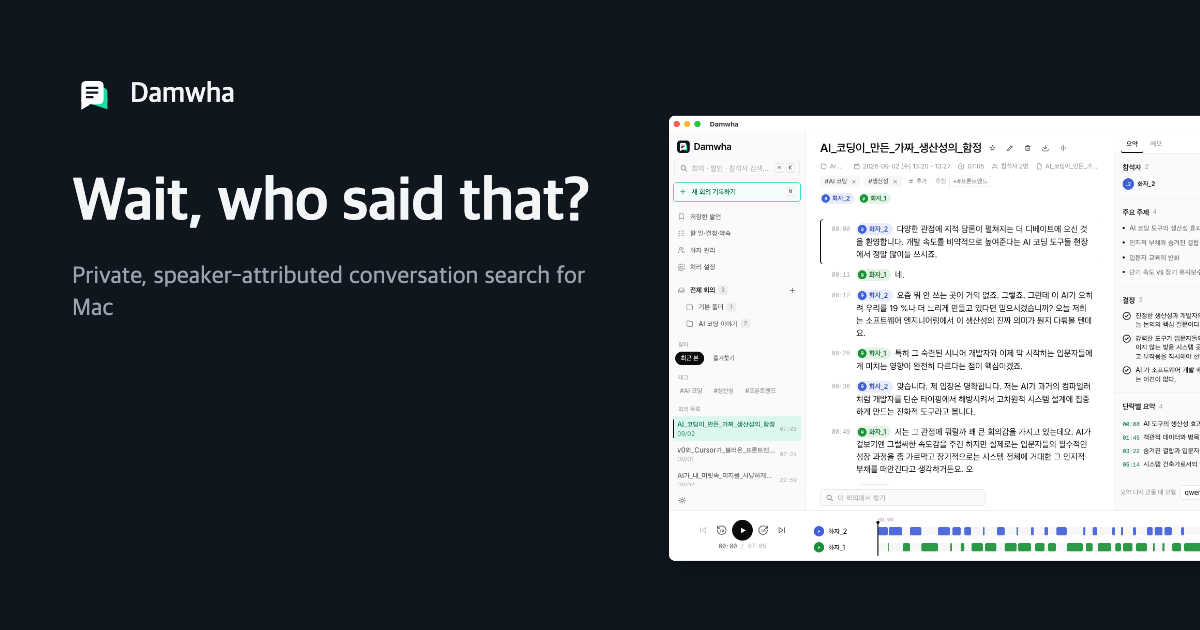
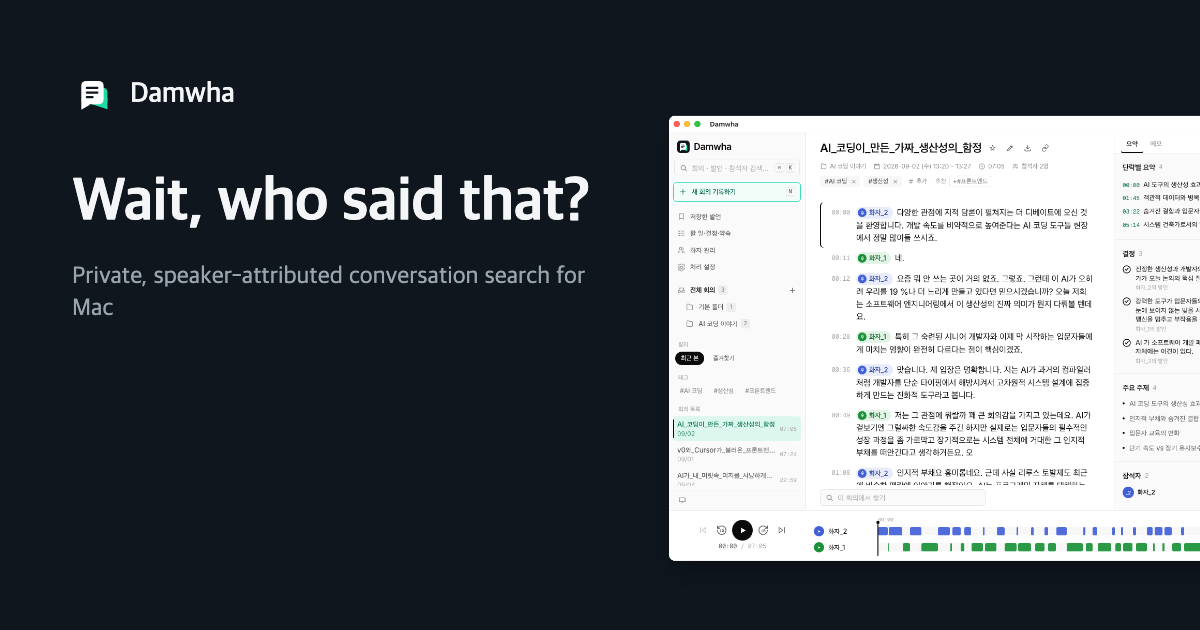
feat(site): 바뀐 회의 목록·상세·화자 관리 화면으로 이미지를 다시 찍고 화자 병합을 소개한다
히어로·정리·화자 이미지 3장을 데모 시드를 띄운 SPA에서 1280x828로 다시 찍어 기존 창 테두리를 입혔다. 히어로가 바뀌어 OG 두 장도 다시 만든다. 화자 항목에 같은 사람이 두 화자로 잡히면 합칠 수 있다는 문장을 보탠다.

Changed region(s): [[0.6783, 0.2413, 1.0, 0.7841], [0.7092, 0.2413, 0.8942, 0.2714]]

diff --git a/site/src/i18n/en.ts b/site/src/i18n/en.ts
@@ -46,7 +46,7 @@ export const en = {
       },
       {
         title: "Knows who is speaking",
-        body: "Voiceprint-based speaker identification. Enroll a speaker once and they're recognized in every later conversation. Mark one as yourself to list the conversations you were in.",
+        body: "Voiceprint-based speaker identification. Enroll a speaker once and they're recognized in every later conversation. Mark one as yourself to list the conversations you were in. If one person was picked up as two speakers, merge them into one.",
         image: "speakers" as const,
         alt: "Speaker management with enrolled voiceprints",
       },

diff --git a/site/src/i18n/ko.ts b/site/src/i18n/ko.ts
@@ -48,7 +48,7 @@ export const ko = {
       },
       {
         title: "누가 말했는지 알아요",
-        body: "목소리 기반 화자 식별. 한 번 등록한 화자는 이후 모든 대화에서 알아봐요. 나를 지정해 두면 내가 참여한 대화만 모아 봐요.",
+        body: "목소리 기반 화자 식별. 한 번 등록한 화자는 이후 모든 대화에서 알아봐요. 나를 지정해 두면 내가 참여한 대화만 모아 봐요. 같은 사람이 두 화자로 잡혔다면 하나로 합칠 수 있어요.",
         image: "speakers",
         alt: "목소리가 등록된 화자 관리 화면",
       },
